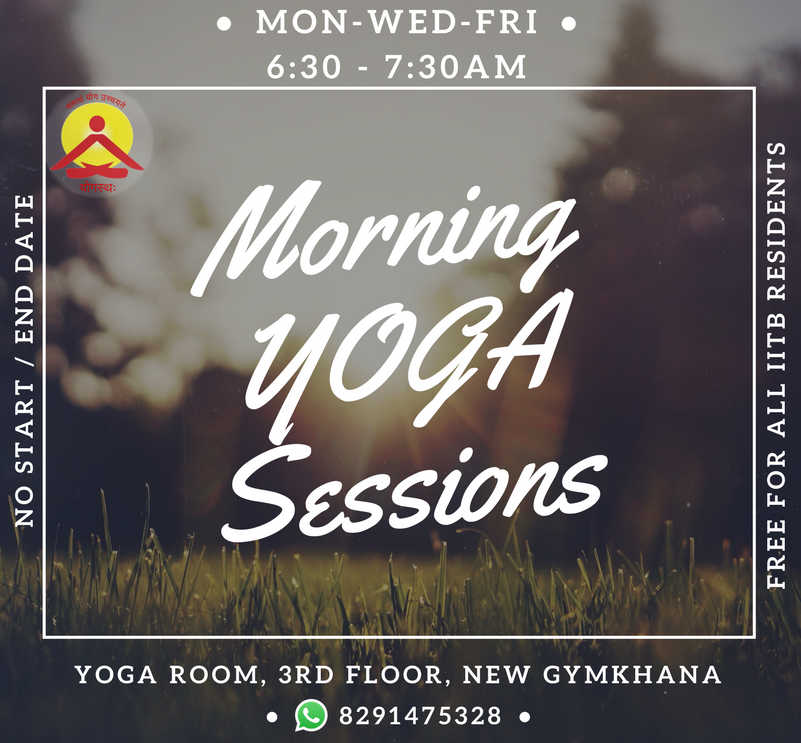
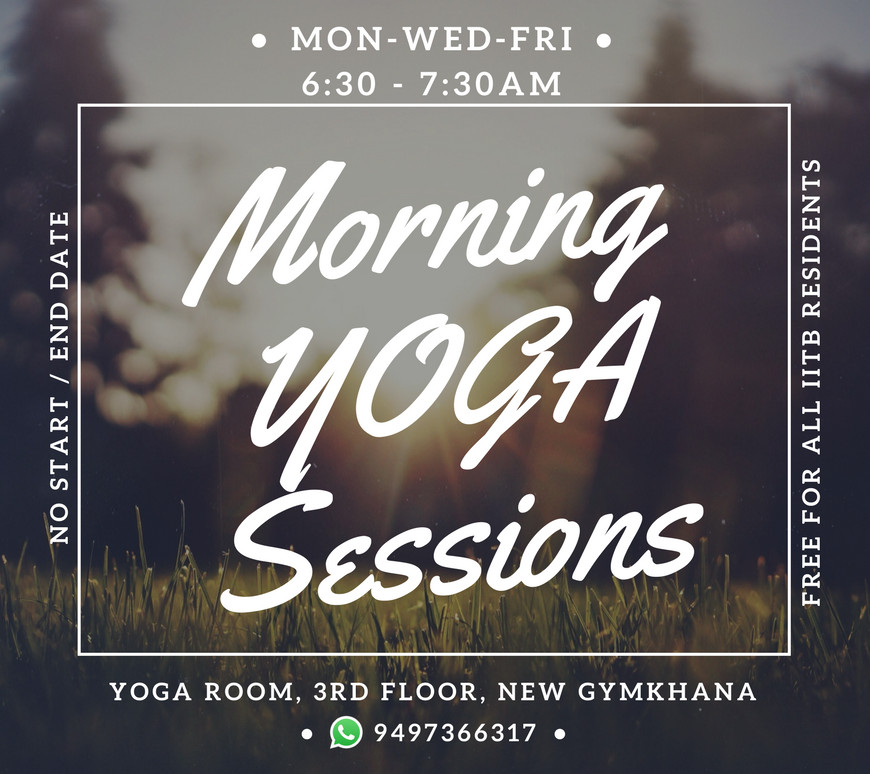
Updated morning Yoga thumbnail and contact

Changed region(s): [[0.0, 0.0, 1.0, 0.9906], [0.0, 0.0, 0.0312, 0.1238], [0.9988, 0.8048, 1.0, 0.8668]]

diff --git a/events.html b/events.html
@@ -145,7 +145,7 @@
                 <strong>Time:</strong> 6:30 - 7:35 AM<br>
                 <strong>Venue:</strong> Yoga room, 3rd Floor, New SAC, Opp. Hostel 11.<br>
 
-                <strong>Contact:</strong> Sourabh - 8291475328 <img src="img/whatsapp.png" height="20px"
+                <strong>Contact:</strong> Vijay - 9497366317 <img src="img/whatsapp.png" height="20px"
                                                                     alt="WhatsApp Image">
                 <br>
 
